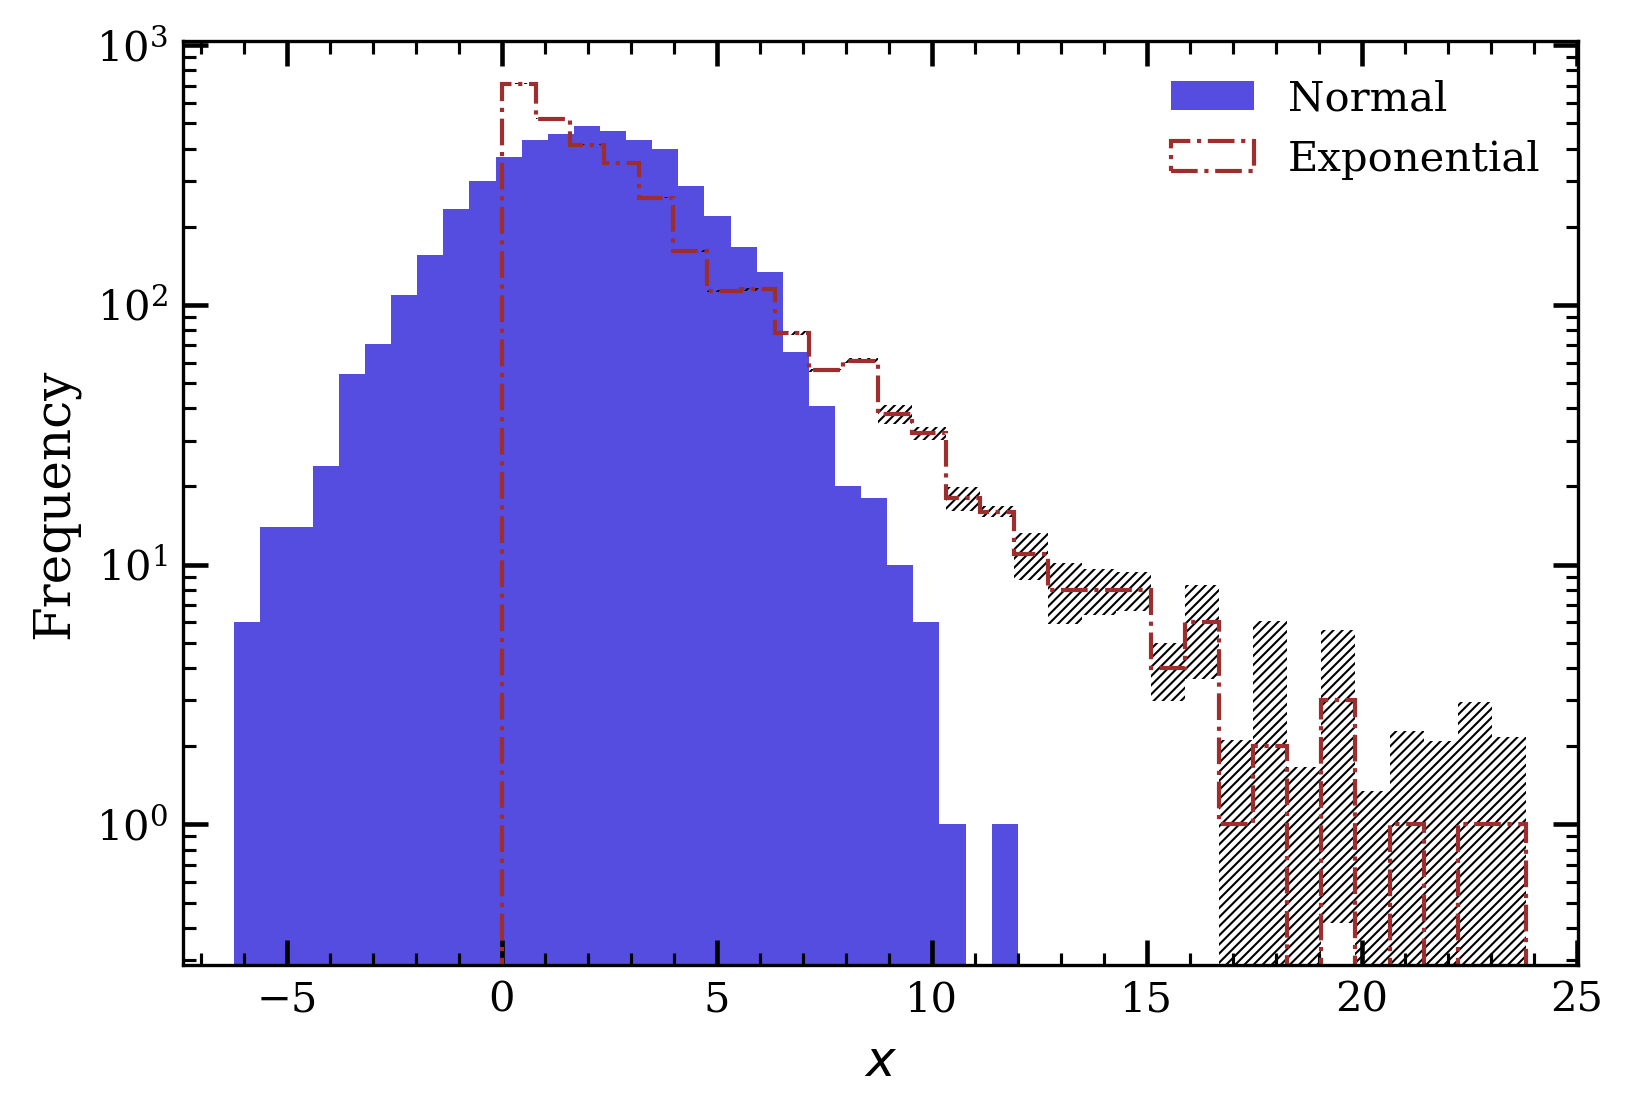
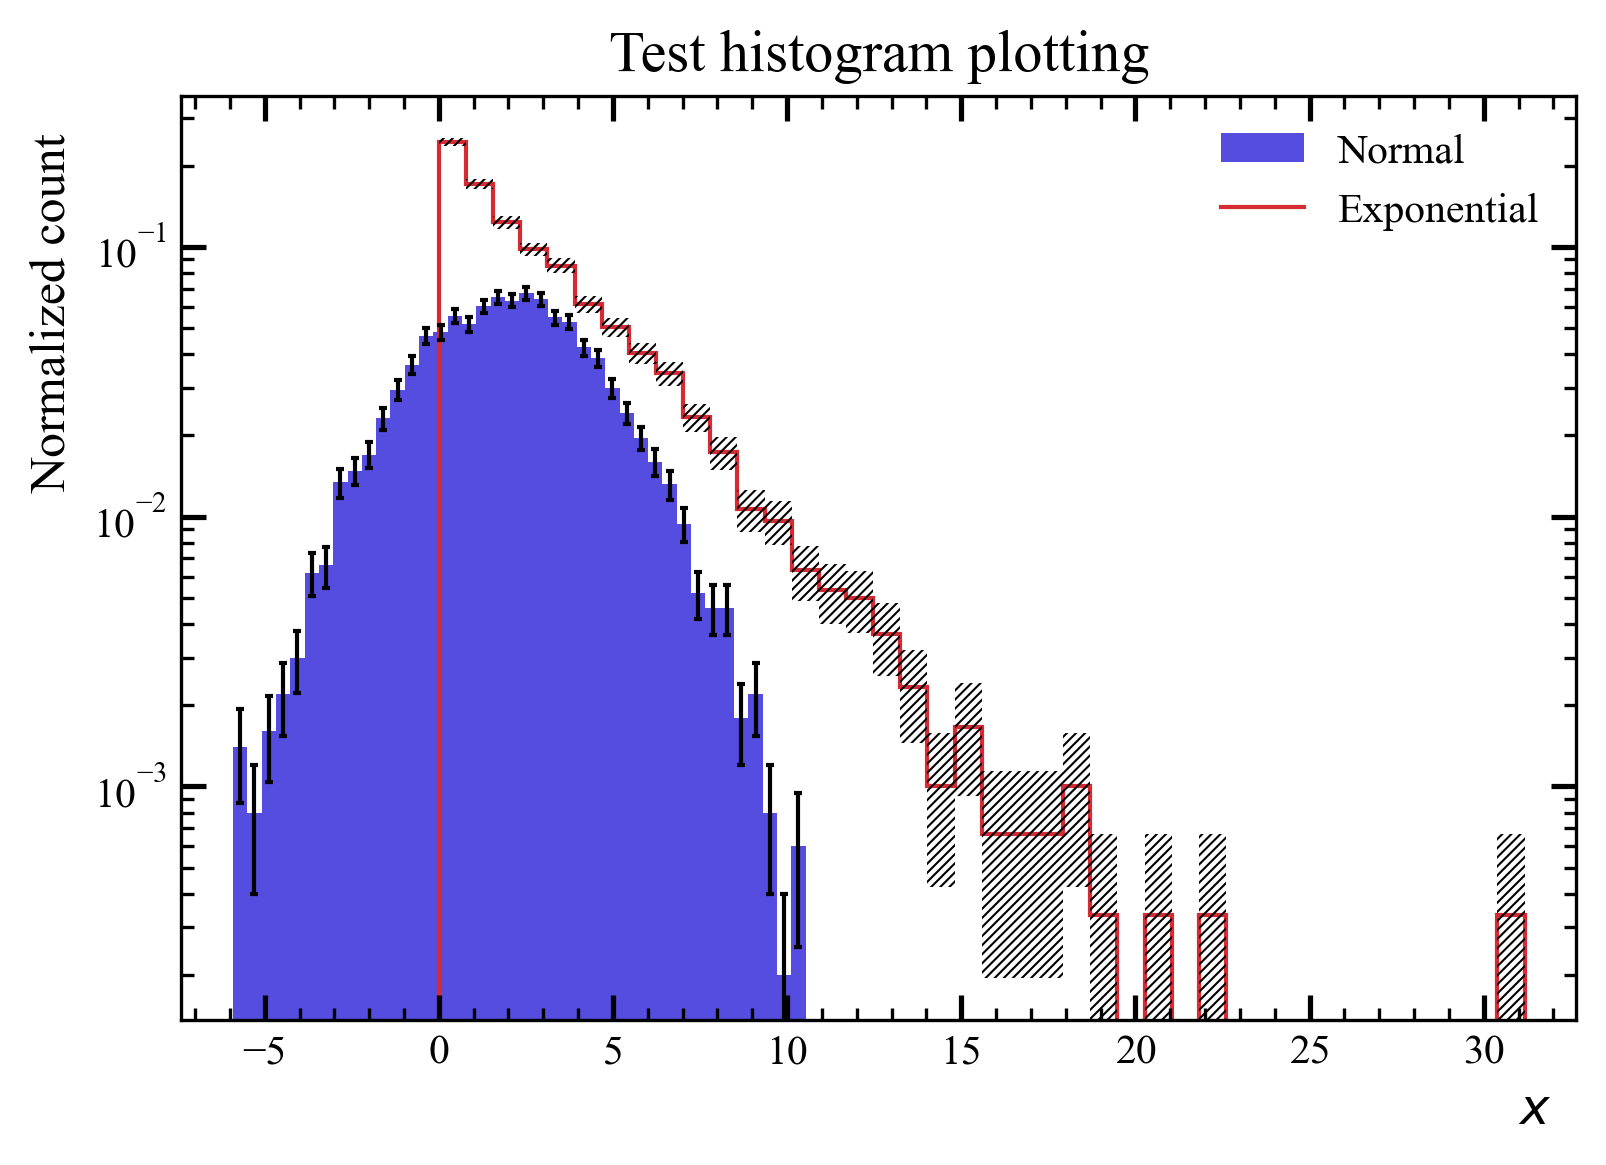
Developed histogram plot object further. Coded up simple example usage of histogram plotting

Changed region(s): [[0.0, 0.0305, 0.9963, 0.914], [0.934, 0.9444, 0.9651, 0.9749], [0.5293, 0.9444, 0.5604, 0.9749]]

diff --git a/src/plotternova/plot_objects/standard2d.py b/src/plotternova/plot_objects/standard2d.py
@@ -1,8 +1,9 @@
 from abc import ABC, abstractmethod
 import numpy as np
 import numpy.typing as npt
-from typing import Literal
+from typing import Literal, Tuple
 from matplotlib.patches import Polygon
+from ..utils import check_shape
 
 
 class Standard2dObject(ABC):
@@ -45,7 +46,7 @@ class ErrorBar(Standard2dObject):
                  xdata: npt.ArrayLike,
                  ydata: npt.ArrayLike,
                  yerr: npt.ArrayLike,
-                 label: str,
+                 label: str | None = None,
                  xerr: npt.ArrayLike | None = None,
                  **kwargs):
         self.xdata = xdata; self.ydata = ydata
@@ -60,18 +61,20 @@ class ErrorBar(Standard2dObject):
         """
         Draws the data +/- error points on the supplied axes on a BasicPlot object
         """
-        ax.errorbar(self.xdata, self.ydata)
+        ax.errorbar(self.xdata, self.ydata, yerr=self.yerr, elinewidth=1, capsize=1, **self.kwargs)
 
 
 class Hist(Standard2dObject):
     def __init__(self, 
                  data: npt.ArrayLike,
                  bins: int | npt.ArrayLike,
+                 bin_range: Tuple[float, float] | None = None,
+                 counted: bool = False,
                  weights: npt.ArrayLike | None = None,
-                 err: str | npt.ArrayLike | None = None, 
+                 include_error: bool = False,
                  normalize: bool = False,
-                 hist_type: str = "stepfilled",
-                 err_type: Literal["ATLAS", "fillbetween", "errorbar"] = "ATLAS",
+                 hist_type: Literal["stepfilled", "step", "bar", "point"] = "stepfilled",
+                 err_style: Literal["ATLAS", "fillbetween", "errorbar"] = "ATLAS",
                  alpha: float = 1,
                  label: str | None = None,
                  **kwargs):
@@ -80,56 +83,142 @@ class Hist(Standard2dObject):
 
         Parameters:
         -----------
-          - data: npt.ArrayLike of data to create a histogram for
+          - data: npt.ArrayLike of data to create a histogram for. You can pass in the raw data or 
+            the already counted up data in the specified bins. If data is already counted, pass 
+            counted = True.
           - bins: int or npt.ArrayLike. Passing an int requests for that many equally spaced bins
-            from the min to max data values. Passing an ArrayLike is for custom bins.
-          - weights: npt.ArrayLike for the weights to apply to each event.
-          - err: str, npt.ArrayLike, or None. str options include "poisson", "standard", or ... 
-            Passing in an ArrayLike, ensuring the same length as the bin count, assigns errors to 
-            those bins. Passing None will not plot errors.
+            from the min to max data values. Passing an ArrayLike is for specifying bin edges. If the
+            user passed in counted data, bin edges must be specified for bins.
+          - bin_range: Tuple[float, float], optional. Specifies the binning range to consider for 
+            np.histogram(). By default, if not passed, the lowest bin edge and highest bin edge
+            default to the min and max of the data respectively.
+          - counted: bool, True specifies whether data has already been counted up for each bin, False
+            specifies that data is the raw data that still needs to be binned. Defaults to False.
+          - weights: npt.ArrayLike, optional. Ensure same length as data. If counted = False, weights
+            is interpreted as the weight to apply to each corresponding data event. If counted = True 
+            and weights were used in the counting process before hand, weights acts as the sum of 
+            weights squared per bin. Weights set to 1 if set to None.
+          - include_error: bool. Whether to include poissonian calculated error bars for plotting.
+            Defaults to False
           - normalize: bool. Normalizes the histogram, default False.
-          - hist_type: str, for various types of histogram appearances. Options include "bar",
-            "step", and "stepfilled" (same as matplotlib ax.hist options). Defualts to
-            "stepfilled".
+          - hist_type: str, for various types of histogram appearances. Options include "step", 
+            "stepfilled", "bar", and "point". Defualts to "stepfilled".
           - err_type: str. Specifies the error type of a histogram if errors are to be plotted. Options
           - alpha: float, sets the opacity of a "filled" or "pattern" histogram. Defaults to 1 for 
             completely solid color. 0 corresponds to transparent.
           - label: name given to histogram to be shown in legend
           - kwargs: various other key-word arguments to matplotlib's ax.hist()
         """
-        # store the data attributes
-        self.data = data
-        self.err = err; self.weights = weights
+        # perform an initial length check for data and weights (if provided)
+        if weights is not None:
+            data, weights = check_shape(data, weights, "data", "weights")
+            self.weights = weights
+        # if no weights are passed, default the weights to be all 1
+        else:
+            self.weights = np.ones_like(data)
+
+        self.counted = counted
+
+        ############################################################################################
+        # Compute the histogram counts, bin edges, and uncertainties
+        ############################################################################################
+        # organize data if user passed in already counted data
+        if counted:
+            if type(bins) == int:
+                raise ValueError(f"Passed in bins={bins}, which is an int, while setting counted="+
+                                 f"{counted}. Ensure an arraylike of binedges is passed.")
+
+            if len(data) != len(bins) - 1:
+                raise ValueError(f"Specified counted=True, but length of the data array is not the "+
+                                 f"length of the bin edges - 1.")
+
+            self.data = data
+            self.bins = bins
+            
+            # calculate the errors in each bin:
+            if include_error:
+                # assumes sum of squared weights per bin
+                if weights is not None:
+                    self.err = np.sqrt(weights)
+                else:
+                    self.err = np.square(data)
+            else:
+                self.err = None
+        
+        # if the user passed in raw, uncounted data
+        else:
+            if bin_range is not None:
+                self.data, self.bins = np.histogram(data, bins=bins, range=bin_range, weights=weights)
+            else:
+                self.data, self.bins = np.histogram(data, bins=bins, weights=weights)
+
+            # calculate the errors on each bin
+            if include_error:
+                # compute err as sqrt of sum of weights squared per bin
+                if weights is not None:
+                    self.err = np.sqrt(np.histogram(data, bins=bins, weights=weights**2)[0])
+                else:
+                    self.err = np.sqrt(self.data)
+            else:
+                self.err = None
+
+        # compute normalization if requested
+        if normalize:
+            sum_counts = np.sum(self.data) if self.counted else np.sum(self.weights)
+            self.data = self.data/sum_counts
+            if self.err is not None: self.err = self.err/sum_counts 
+
         self.normalize = normalize
 
-        # store the bin attributes
-        self.bins = bins
-
+        ############################################################################################
+        # store the appearance attributes and other histogram settings
+        ############################################################################################
         # store the appearance attributes
         self.label = label
         self.hist_type = hist_type
-        self.err_type = err_type
+        self.err_style = err_style
         self.alpha = alpha
-
-        # store various other kwargs that go into plotting a histogram
         self.kwargs = kwargs
 
     def draw(self, ax):
         """
         Draws the histrogram on the supplied axes
         """
-        n, bin_edges, handle = ax.hist(self.data, self.bins, density=self.normalize, histtype=self.hist_type, 
-                          alpha=self.alpha, **self.kwargs)
-    
+        # plot the main histogram contents
+        match self.hist_type:
+            case "step":
+                handle = ax.stairs(self.data, self.bins, alpha=self.alpha, **self.kwargs)
+
+            case "stepfilled":
+                handle = ax.stairs(self.data, self.bins, fill=True, alpha=self.alpha, **self.kwargs)
+
+            case "bar":
+                bincenters = (self.bins[1:] + self.bins[:-1])/2
+                handle = ax.bar(bincenters, self.data, align="center", linewidth=1, alpha=self.alpha, **self.kwargs)
+
+            case "point":
+                bincenters = (self.bins[1:] + self.bins[:-1])/2
+                handle = ax.plot(bincenters, self.data, ms=1.5, mc="black", **self.kwargs)
+
+            case _:
+                raise ValueError(f"{self.hist_type} is an invalid histogram type. Choose either "+
+                                 "'step', 'stepfilled', or 'bar'.")
+
+        # n, bin_edges, handle = ax.hist(self.data, self.bins, density=self.normalize, histtype=self.hist_type, 
+        #                   alpha=self.alpha, **self.kwargs)
+
+        # plot the error bars if requested. can plot in 3 different styles
         if self.err is not None:
-            match self.err_type:
+            bin_edges = self.bins
+            match self.err_style:
+                # ATLAS style: black diagonal bars
                 case "ATLAS":
                     verts = []
 
                     # Upper edge
                     for i in range(len(bin_edges)-1):
                         binl = bin_edges[i]; binr = bin_edges[i+1]
-                        y = n[i]
+                        y = self.data[i]
                         e = self.err[i]
                         verts.append((binl, y + e))
                         verts.append((binr, y + e))
@@ -137,19 +226,41 @@ class Hist(Standard2dObject):
                     # Lower edge (reversed)
                     for i in range(len(bin_edges)-1, 0, -1):
                         binl = bin_edges[i-1]; binr = bin_edges[i]
-                        y = n[i-1]
+                        y = self.data[i-1]
                         e = self.err[i-1]
                         verts.append((binr, y - e))
                         verts.append((binl, y - e))
 
                     # Create polygon with hatching
-                    poly = Polygon(verts, closed=True, facecolor='none', edgecolor='black', hatch='///////////', hatch_linewidth=0.5, linewidth=0)
+                    poly = Polygon(verts, closed=True, facecolor='none', edgecolor='black', 
+                                   hatch='///////////', hatch_linewidth=0.5, linewidth=0)
                     ax.add_patch(poly)
 
+                # faint +/- band of the same color around histogram bins
                 case "fillbetween":
                     ...
 
-        return handle[0] # ax.hist() returns handles as a list here. Grabbing first element.
+                # error bars about each bin
+                case "errorbar":
+                    bincenters = (bin_edges[1:] + bin_edges[:-1]) / 2
+
+                    # obtain a good color for the error bars
+                    match self.hist_type:
+                        case "bar" | "stepfilled":
+                            errorbar_color = "black"
+                        case "step" | "point":
+                            errorbar_color = handle.get_facecolor()
+
+                    hist_errbar = ErrorBar(bincenters, self.data, self.err, linestyle='none', 
+                                           color=errorbar_color)
+                    hist_errbar.draw(ax)
+
+                case _:
+                    print(f"Warning: {self.err_style} not a error style.")
+                    print("Valid error types are ['ATLAS', 'fillbetween', 'errorbar'].")
+
+
+        return handle
 
 
     def divide_hists(self, other, ax) -> npt.ArrayLike:

diff --git a/examples/hist_test.py b/examples/hist_test.py
@@ -6,15 +6,33 @@ from plotternova.plot_objects.standard2d import Hist
 # generate random data from both normal and exponential distributions for sample plotting
 normal_data = np.random.normal(loc=2, scale=2.5, size=5000)
 expo_data = np.random.exponential(scale=3, size=3000)
-expo_err = np.sqrt(expo_data)
 
+test_hist = HistPlot(stack=False, ratio=False, xlabel=r"$x$", ylabel="Normalized count",
+                     legend_settings="default inside", ylog_on = True, beautify_ticks=True, 
+                     title="Test histogram plotting", style="publication")
 
+norm_hist = Hist(normal_data,
+                 bins=40,
+                 counted=False,
+                 normalize=True,
+                 include_error=True,
+                 hist_type="stepfilled",
+                 err_style="errorbar",
+                 label="Normal",
+                 color="#554CE0"
+                 )
 
+expo_hist = Hist(expo_data,
+                 bins=40,
+                 counted=False,
+                 normalize=True,
+                 include_error=True,
+                 hist_type="step",
+                 err_style="ATLAS",
+                 label="Exponential",
+                 color="#d72b34"
+                 )
 
-test_hist = HistPlot(normalize=False, stack=False, ratio=False, xlabel=r"$x$", ylabel="Frequency",
-                     legend_settings="default inside", ylog_on = True, beautify_ticks=True)
-
-test_hist.add_data(Hist(normal_data, bins=30, hist_type="stepfilled", color="#554CE0", label="Normal"),
-                   Hist(expo_data, bins=30, hist_type="step", err=expo_err, linestyle="-.", color="#9E2E2E", label="Exponential"))
+test_hist.add_data(norm_hist, expo_hist)
 
 test_hist.plot(export=True, file_name="test_hist.png")

diff --git a/src/plotternova/plot_classes/hist.py b/src/plotternova/plot_classes/hist.py
@@ -16,7 +16,6 @@ class HistPlot(PlotBase):
     ALLOWED_TYPES = (Hist, PointsLines, ErrorBar, FillBetween)
     
     def __init__(self,
-                 normalize: bool = False,
                  stack: bool = False,
                  ratio: bool = False,
                  **kwargs):
@@ -39,7 +38,6 @@ class HistPlot(PlotBase):
         # initialize the figure (without anything plotted yet)
         self._setup_fig()
 
-        self.normalize = normalize
         self.stack = stack
         self.ratio = ratio
 
@@ -60,10 +58,6 @@ class HistPlot(PlotBase):
                     f"Allowed types for histograms: {[cls.__name__ for cls in self.ALLOWED_TYPES]}"
                 )
             else:
-                # ensure normalization is applied to all histograms if requested.
-                if isinstance(plot_object, Hist):
-                    plot_object.normalize = self.normalize
-
                 self._datasets.append(plot_object)
 
     def remove_data(self):
@@ -96,8 +90,8 @@ class HistPlot(PlotBase):
             
             # determine the max and min x and y values for the data
             if isinstance(dataset, Hist):
-                minx_arr.append(np.min(dataset.data))
-                maxx_arr.append(np.max(dataset.data))
+                minx_arr.append(np.min(dataset.bins))
+                maxx_arr.append(np.max(dataset.bins))
             elif isinstance(dataset, PointsLines):
                 minx_arr.append(np.min(dataset.xdata))
                 maxx_arr.append(np.max(dataset.xdata))

diff --git a/src/plotternova/utils.py b/src/plotternova/utils.py
@@ -13,7 +13,6 @@ def decorate_legend(ax, handles, labels, settings, fontsize=mpl.rcParams["legend
         if type(settings) == str:
             match settings:
                 case "default inside":
-                    print(handles); print(labels)
                     ax.legend(handles, labels, loc=0, fontsize=fontsize, frameon=False)
 
                 case "default outside":
@@ -129,9 +128,12 @@ def magnitude_round(x, type="ceil"):
         return 10**(np.floor(np.log10(x)))
 
 
-def validate_xy(x, y):
+def check_shape(x, y, xname, yname):
+    """
+    Checks whether dimension of 2 arrays are equal to each other
+    """
     x = np.asarray(x)
     y = np.asarray(y)
     if x.shape != y.shape:
-        raise ValueError(f"x and y must have the same shape, got {x.shape} and {y.shape}")
+        raise ValueError(f"{xname} and {yname} must have the same shape, got {x.shape} and {y.shape}")
     return x, y

diff --git a/src/plotternova/theme/style.py b/src/plotternova/theme/style.py
@@ -40,8 +40,8 @@ PUB_SMALL_STYLE = {
     "ytick.major.width": 1,
     "xtick.minor.width": 0.75,
     "ytick.minor.width": 0.75,
-    "text.usetex": True, # enable LaTeX
-    "text.latex.preamble": r"\usepackage{amsmath}"
+    # "text.usetex": True, # enable LaTeX
+    # "text.latex.preamble": r"\usepackage{amsmath}"
 }
 
 # figure template for publications
